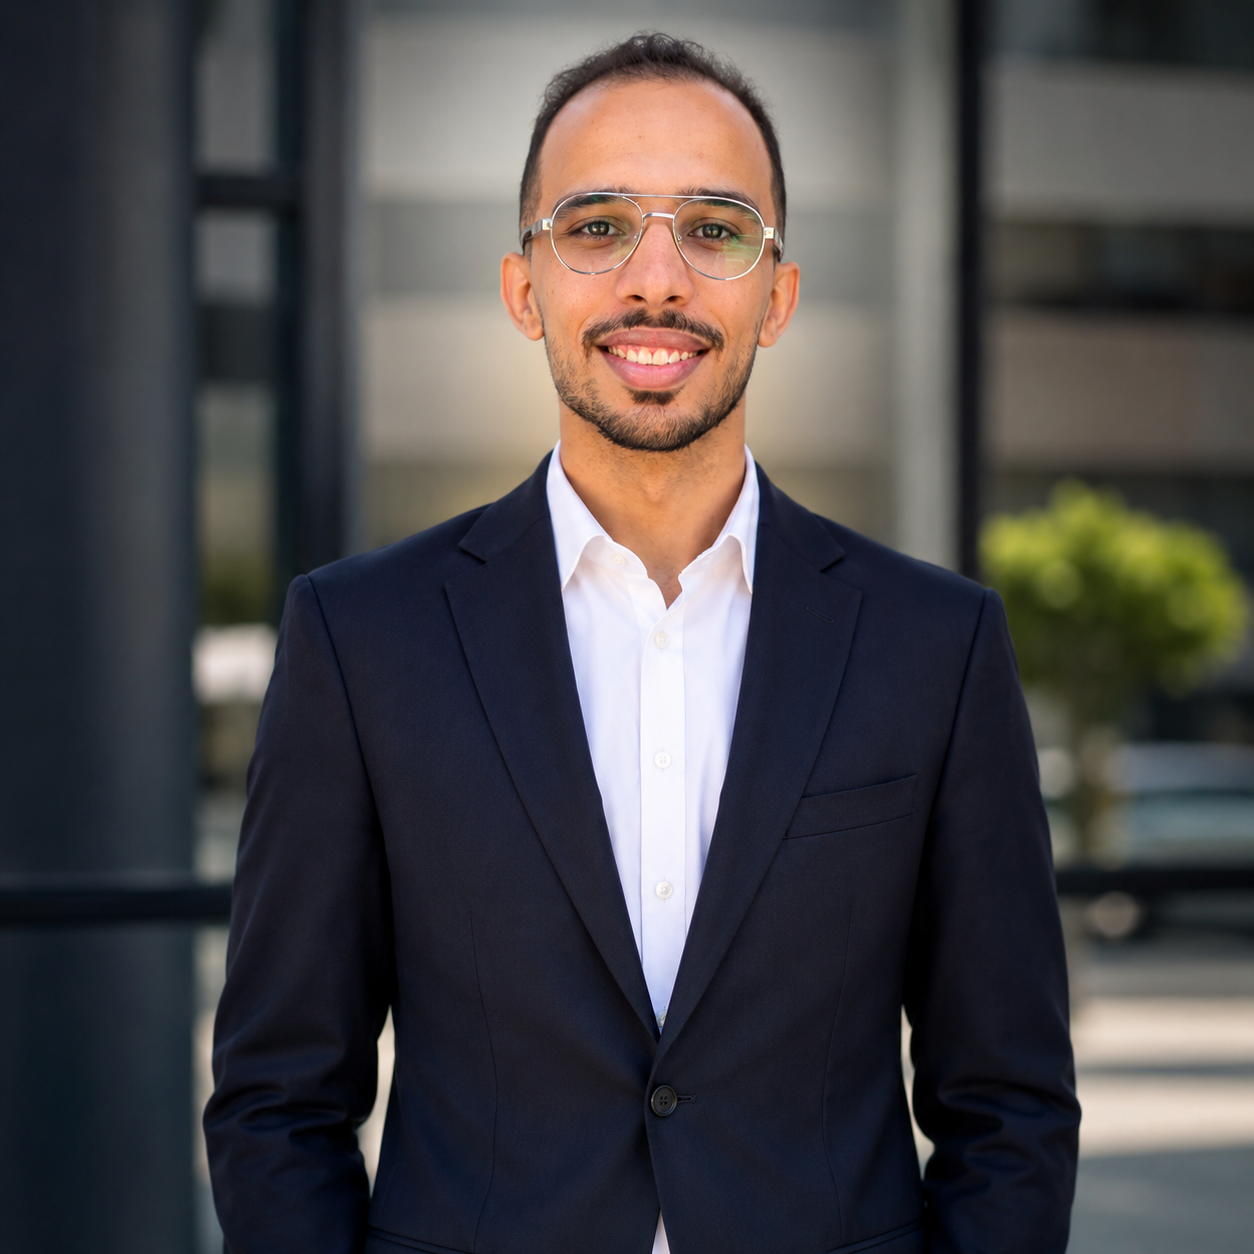
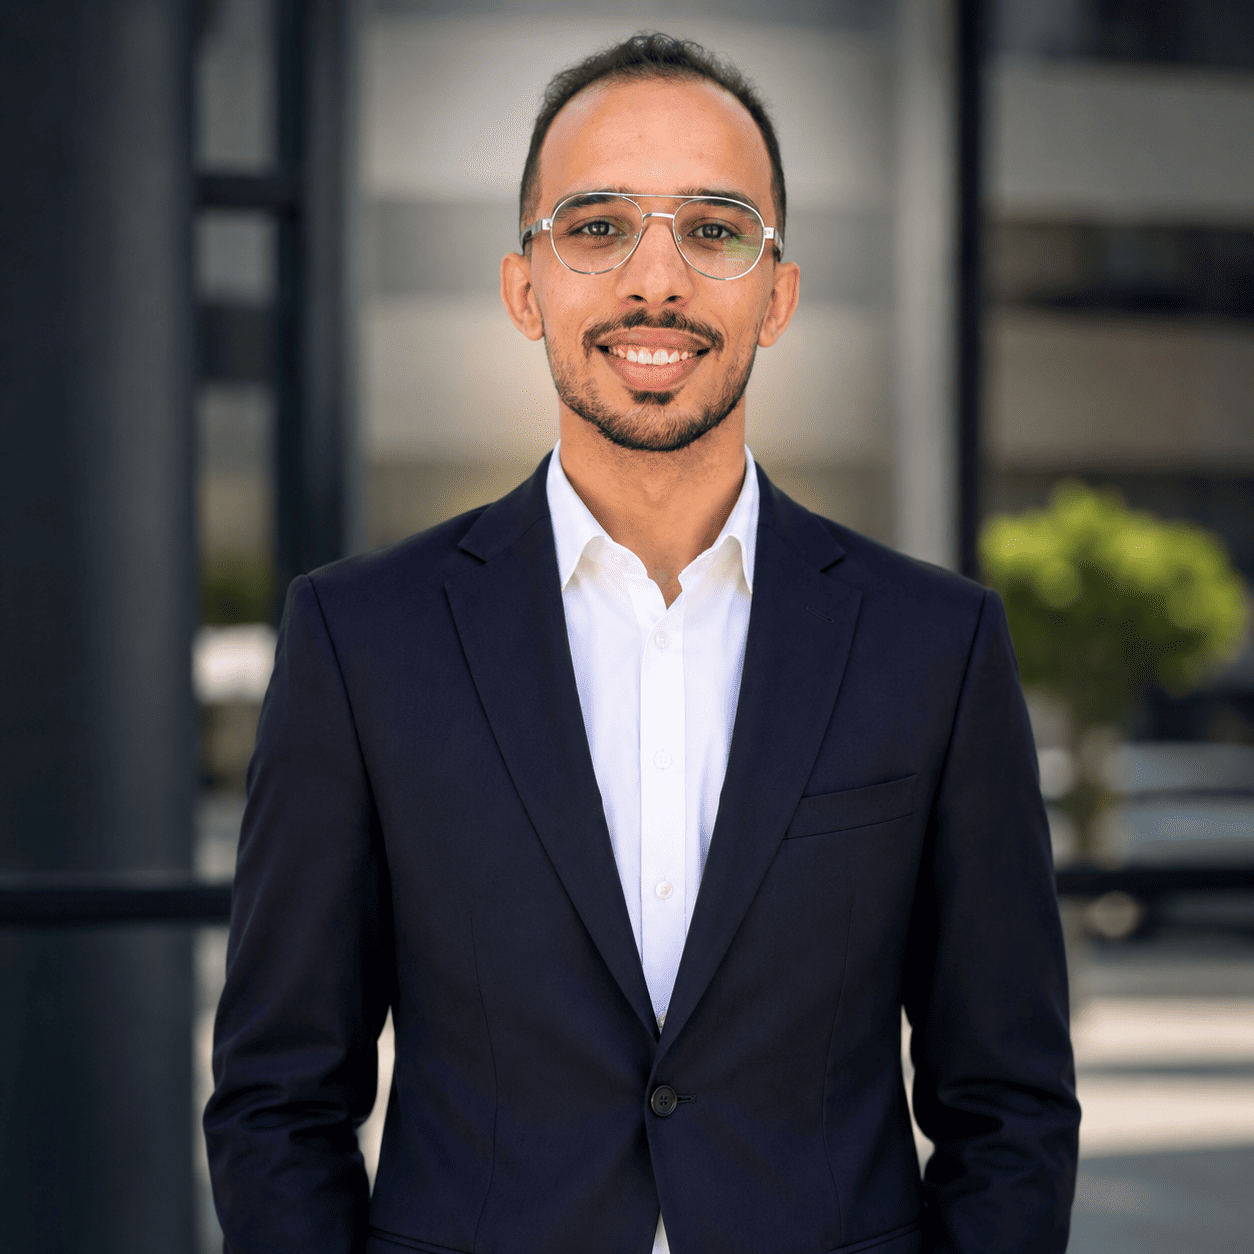
feat: update color scheme and add Not Found page

diff --git a/src/app/not-found.tsx b/src/app/not-found.tsx
@@ -1,0 +1,101 @@
+import React from 'react';
+import Link from 'next/link';
+import { AlertCircle, ArrowLeft, Terminal } from 'lucide-react';
+
+export default function NotFound() {
+	return (
+		<main className="relative min-h-screen flex items-center justify-center overflow-hidden bg-[var(--bg-primary)] px-5 py-24 transition-colors duration-300 sm:px-8">
+			{/* Coordinate grid background pattern */}
+			<div
+				className="pointer-events-none absolute inset-0 opacity-[0.035] dark:opacity-[0.05] transition-opacity duration-300"
+				style={{
+					backgroundImage: `radial-gradient(circle at 1px 1px, currentColor 1px, transparent 0)`,
+					backgroundSize: '28px 28px',
+				}}
+				aria-hidden="true"
+			/>
+			<div
+				className="pointer-events-none absolute top-1/2 left-1/2 -translate-x-1/2 -translate-y-1/2 h-[340px] w-[460px] rounded-full bg-[#3b82f6]/[0.06] blur-[120px] dark:bg-[#3b82f6]/[0.08]"
+				aria-hidden="true"
+			/>
+
+			<div className="relative mx-auto max-w-xl w-full">
+				<div className="rounded-[6px] border border-[var(--border-color)] bg-[var(--bg-card)] shadow-sm overflow-hidden">
+					{/* Console Title Bar */}
+					<div className="flex flex-wrap items-center justify-between gap-3 border-b border-[var(--border-color)] bg-[var(--bg-soft)] px-5 py-3">
+						<div className="flex items-center gap-2">
+							<span className="h-2 w-2 rounded-full bg-[#2563eb] dark:bg-[#3b82f6]" aria-hidden="true" />
+							<span className="font-mono-code text-[11px] uppercase tracking-[0.16em] text-[var(--text-secondary)]">
+								error_log: 404_not_found.manifest
+							</span>
+						</div>
+						<div className="font-mono-code text-[10px] uppercase tracking-[0.14em] text-[#b91c1c] dark:text-[#fca5a5] font-semibold">
+							STATUS: EXCEPTION
+						</div>
+					</div>
+
+					{/* Main Console Body */}
+					<div className="p-6 sm:p-8 space-y-6">
+						<div className="flex items-center gap-2 font-mono-code text-xs uppercase tracking-[0.2em] text-[#2563eb] dark:text-[#60a5fa]">
+							<Terminal className="h-3.5 w-3.5 text-[#2563eb] dark:text-[#3b82f6]" aria-hidden="true" />
+							<span>{'// ROUTING.EXCEPTION'}</span>
+						</div>
+
+						<div>
+							<h1 className="font-display text-3xl sm:text-4xl font-bold tracking-[-0.03em] leading-tight text-[var(--text-primary)]">
+								Pipeline Endpoint Not Found
+							</h1>
+							<p className="mt-3 text-sm sm:text-base leading-relaxed text-[var(--text-muted)]">
+								The requested URL or resource does not exist in the route manifest. The schema query returned zero records.
+							</p>
+						</div>
+
+						{/* Diagnostic Specification Table */}
+						<div className="rounded-[4px] border border-[var(--border-color)] bg-[var(--bg-soft)] p-4 font-mono-code text-xs space-y-2">
+							<div className="flex items-center justify-between pb-1.5 border-b border-[var(--border-color)]/70 text-[10px] uppercase tracking-[0.16em] text-[var(--text-muted)]">
+								<span className="flex items-center gap-1.5">
+									<AlertCircle className="h-3 w-3 text-[#2563eb] dark:text-[#3b82f6]" aria-hidden="true" />
+									DIAGNOSTIC_TRACE
+								</span>
+								<span className="text-[#1d4ed8] dark:text-[#60a5fa] font-semibold">HTTP 404</span>
+							</div>
+
+							<div className="space-y-1.5 text-[11px]">
+								<div className="flex items-center justify-between gap-3">
+									<span className="text-[var(--text-muted)] uppercase tracking-[0.12em]">ERROR_CODE:</span>
+									<span className="text-[var(--text-primary)] font-medium">ERR_ROUTE_NOT_FOUND</span>
+								</div>
+								<div className="flex items-center justify-between gap-3 pt-1 border-t border-[var(--border-color)]/60">
+									<span className="text-[var(--text-muted)] uppercase tracking-[0.12em]">STATUS:</span>
+									<span className="text-[#b91c1c] dark:text-[#fca5a5]">RESOURCE_UNAVAILABLE</span>
+								</div>
+								<div className="flex items-center justify-between gap-3 pt-1 border-t border-[var(--border-color)]/60">
+									<span className="text-[var(--text-muted)] uppercase tracking-[0.12em]">RECOMMENDED_ACTION:</span>
+									<span className="text-[var(--text-secondary)]">REDIRECT_TO_ROOT</span>
+								</div>
+							</div>
+						</div>
+
+						{/* Actions */}
+						<div className="pt-2 flex flex-wrap items-center gap-3">
+							<Link
+								href="/"
+								className="inline-flex w-full items-center justify-center gap-2 rounded-[4px] bg-[#2563eb] hover:bg-[#1d4ed8] dark:bg-[#2563eb] dark:hover:bg-[#1d4ed8] px-5 py-2.5 font-mono-code text-xs uppercase tracking-[0.1em] font-semibold text-white transition-colors duration-300 focus-visible:outline-2 focus-visible:outline-offset-2 focus-visible:outline-[#3b82f6] sm:w-auto"
+							>
+								<ArrowLeft className="h-3.5 w-3.5" aria-hidden="true" />
+								<span>Return to Pipeline</span>
+							</Link>
+
+							<Link
+								href="/#projects"
+								className="inline-flex w-full items-center justify-center gap-2 rounded-[4px] border border-[var(--border-subtle)] bg-[var(--bg-card)] px-5 py-2.5 font-mono-code text-xs uppercase tracking-[0.1em] font-medium text-[var(--text-secondary)] transition-colors duration-300 hover:border-[#2563eb] hover:bg-[#2563eb] hover:text-white dark:hover:border-[#3b82f6]/60 dark:hover:bg-[var(--bg-card-hover)] dark:hover:text-white focus-visible:outline-2 focus-visible:outline-[#3b82f6] sm:w-auto"
+							>
+								<span>View Projects</span>
+							</Link>
+						</div>
+					</div>
+				</div>
+			</div>
+		</main>
+	);
+}

diff --git a/src/components/ProjectsSection.tsx b/src/components/ProjectsSection.tsx
@@ -3,7 +3,6 @@
 import React from 'react';
 import { projectsData } from '@/data/projects';
 import {
-	Database,
 	FileCode2,
 	Cpu,
 	Terminal,
@@ -24,11 +23,6 @@ export function ProjectsSection() {
 			scopeType: string;
 		}
 	> = {
-		'snack-n-track': {
-			domainBadge: 'RELATIONAL DATABASE & ML',
-			icon: Database,
-			scopeType: 'ACADEMIC GRADUATION BUILD',
-		},
 		'downv': {
 			domainBadge: 'MEDIA STREAMS & CLI',
 			icon: FileCode2,
@@ -69,7 +63,7 @@ export function ProjectsSection() {
 							<span>{'// TECHNICAL.PROJECTS'}</span>
 						</div>
 						<div className="hidden sm:flex items-center gap-2 font-mono-code text-[10px] uppercase tracking-[0.16em] text-[var(--text-muted)]">
-							<span className="h-1.5 w-1.5 rounded-full bg-[#3b82f6]" />
+							<span className="h-1.5 w-1.5 rounded-full bg-[#2563eb] dark:bg-[#3b82f6]" />
 							<span>SOURCE REPOSITORIES · {projectsData.length} BUILDS</span>
 						</div>
 					</div>
@@ -176,11 +170,11 @@ export function ProjectsSection() {
 													target="_blank"
 													rel="noopener noreferrer"
 													aria-label={`View ${project.title} source repository (opens in a new tab)`}
-													className="group inline-flex items-center gap-2 rounded-[4px] border border-[var(--border-color)] bg-[var(--bg-soft)] px-4 py-2 font-mono-code text-xs uppercase tracking-[0.1em] font-medium text-[var(--text-primary)] transition-colors duration-300 hover:border-[#3b82f6]/60 hover:text-[#1d4ed8] dark:hover:text-[#60a5fa] focus-visible:outline-2 focus-visible:outline-offset-2 focus-visible:outline-[#3b82f6]"
+													className="group inline-flex items-center gap-2 rounded-[4px] border border-[#2563eb] bg-[#2563eb] hover:bg-[#1d4ed8] hover:border-[#1d4ed8] dark:border-[#2563eb] dark:bg-[#2563eb] dark:hover:border-[#1d4ed8] dark:hover:bg-[#1d4ed8] px-4 py-2 font-mono-code text-xs uppercase tracking-[0.1em] font-semibold text-white transition-colors duration-300 focus-visible:outline-2 focus-visible:outline-offset-2 focus-visible:outline-[#3b82f6]"
 												>
-													<GitBranch className="h-3.5 w-3.5 text-[#3b82f6]" />
+													<GitBranch className="h-3.5 w-3.5" aria-hidden="true" />
 													<span>VIEW SOURCE REPOSITORY</span>
-													<ArrowUpRight className="h-3.5 w-3.5 text-[var(--text-muted)] transition-[transform,translate,scale,rotate,color] duration-[150ms,150ms,150ms,150ms,300ms] group-hover:translate-x-0.5 group-hover:-translate-y-0.5" aria-hidden="true" />
+													<ArrowUpRight className="h-3.5 w-3.5 text-white/80 transition-transform duration-150 group-hover:translate-x-0.5 group-hover:-translate-y-0.5 group-hover:text-white" aria-hidden="true" />
 												</a>
 											</div>
 										)}

diff --git a/src/app/globals.css b/src/app/globals.css
@@ -110,7 +110,7 @@
 
 		--text-primary: #0f172a;
 		--text-secondary: #334155;
-		--text-muted: #64748b;
+		--text-muted: #475569;
 		--text-accent: #1d4ed8;
 
 		--accent-cyan: #2563eb;
@@ -194,6 +194,12 @@
 			animation-iteration-count: 1 !important;
 			transition-duration: 0.01ms !important;
 			scroll-behavior: auto !important;
+		}
+
+		.reveal,
+		.reveal.is-ready {
+			opacity: 1;
+			transform: none;
 		}
 	}
 
@@ -441,24 +447,5 @@ section[id] {
 	.scrollbar-thin::-webkit-scrollbar-thumb {
 		background: var(--border);
 		border-radius: 999px;
-	}
-}
-
-/* Reduced Motion Mode Support */
-@media (prefers-reduced-motion: reduce) {
-
-	*,
-	::before,
-	::after {
-		animation-duration: 0.01ms !important;
-		animation-iteration-count: 1 !important;
-		transition-duration: 0.01ms !important;
-		scroll-behavior: auto !important;
-	}
-
-	.reveal,
-	.reveal.is-ready {
-		opacity: 1;
-		transform: none;
 	}
 }

diff --git a/src/components/EducationSection.tsx b/src/components/EducationSection.tsx
@@ -24,7 +24,7 @@ export function EducationSection() {
 							{'// EDUCATION.CREDENTIALS'}
 						</p>
 						<p className="hidden items-center gap-2 font-mono-code text-[10px] uppercase tracking-[0.16em] sm:flex text-[var(--text-muted)]">
-							<span className="h-1.5 w-1.5 rounded-full bg-[#3b82f6]" aria-hidden="true" />
+							<span className="h-1.5 w-1.5 rounded-full bg-[#2563eb] dark:bg-[#3b82f6]" aria-hidden="true" />
 							Academic foundation · Professional development
 						</p>
 					</div>

diff --git a/src/components/LeadershipSection.tsx b/src/components/LeadershipSection.tsx
@@ -26,7 +26,7 @@ export function LeadershipSection() {
 							<span>{'// LEADERSHIP'}</span>
 						</p>
 						<p className="hidden items-center gap-2 font-mono-code text-[10px] uppercase tracking-[0.16em] sm:flex text-[var(--text-muted)]">
-							<span className="h-1.5 w-1.5 rounded-full bg-[#3b82f6]" aria-hidden="true" />
+							<span className="h-1.5 w-1.5 rounded-full bg-[#2563eb] dark:bg-[#3b82f6]" aria-hidden="true" />
 							Initiative · coordination · service
 						</p>
 					</div>

diff --git a/src/components/ContactApiRequest.tsx b/src/components/ContactApiRequest.tsx
@@ -83,7 +83,7 @@ export function ContactApiRequest() {
 							{'// CONTACT'}
 						</p>
 						<p className="hidden items-center gap-2 font-mono-code text-[10px] uppercase tracking-[0.16em] sm:flex text-[var(--text-muted)]">
-							<span className="h-1.5 w-1.5 rounded-full bg-[#3b82f6]" aria-hidden="true" />
+							<span className="h-1.5 w-1.5 rounded-full bg-[#2563eb] dark:bg-[#3b82f6]" aria-hidden="true" />
 							Direct channels · message form
 						</p>
 					</div>
